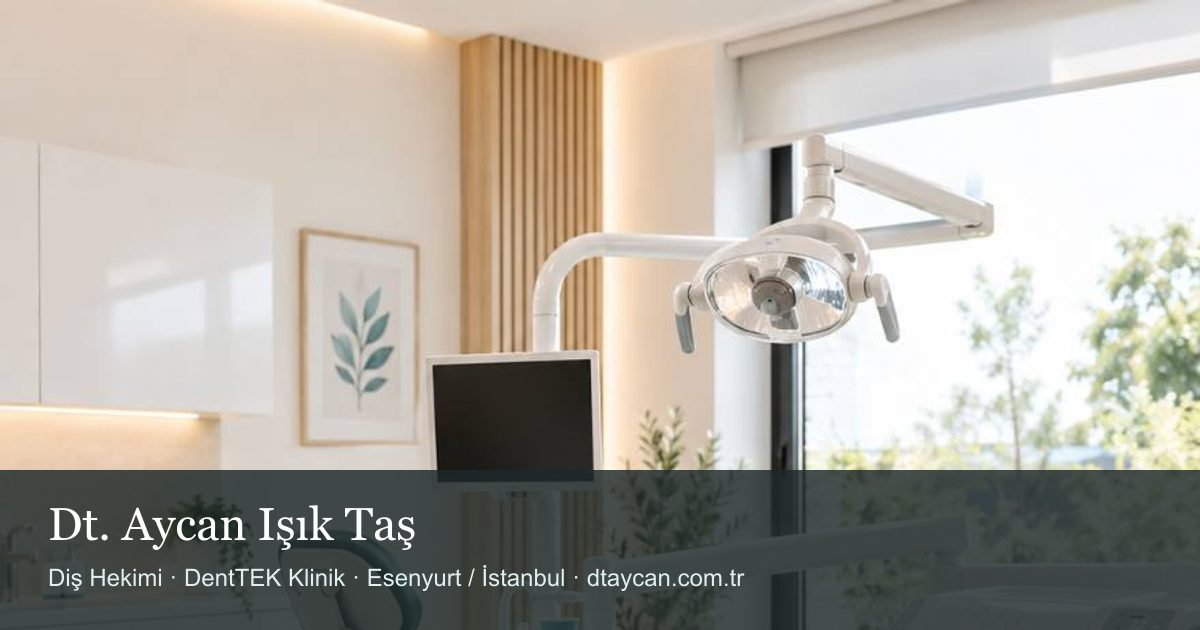
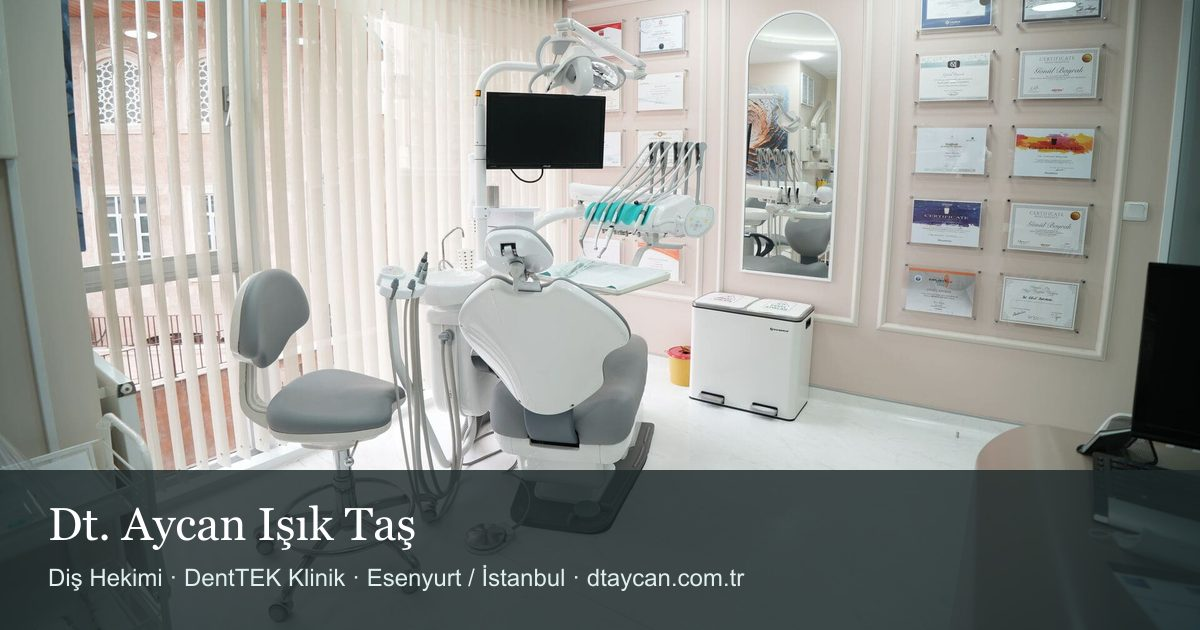
Gerçek fotoğraflar

diff --git a/public/index.html b/public/index.html
@@ -11,7 +11,7 @@
 <meta property="og:description" content="Dt. Aycan Işık Taş — Esenyurt / İstanbul, DentTEK Klinik. Estetik diş hekimliği, implant, ortodonti, çocuk diş hekimliği ve koruyucu tedaviler hakkında bilgilendirme ve randevu.">
 <meta property="og:type" content="website">
 <meta property="og:url" content="https://dtaycan.com.tr/">
-<meta property="og:image" content="https://dtaycan.com.tr/img/klinik.jpg">
+<meta property="og:image" content="https://dtaycan.com.tr/img/og.jpg">
 <meta property="og:locale" content="tr_TR">
 <link rel="icon" href="/favicon.svg" type="image/svg+xml">
 <link rel="preconnect" href="https://fonts.googleapis.com">
@@ -57,7 +57,7 @@
       </ul>
     </div>
     <div class="hero-art">
-      <div class="hero-card"><img src="/img/hero.svg" alt="" width="880" height="1100" fetchpriority="high"></div>
+      <div class="hero-card"><picture><source srcset="/img/hero.webp" type="image/webp"><img src="/img/hero.jpg" alt="Dt. Aycan Işık Taş, DentTEK Klinik tedavi odasında" width="880" height="1100" fetchpriority="high"></picture></div>
     </div>
   </div>
 </section>
@@ -71,7 +71,7 @@
 <p>Her hastanın ağız yapısı, beklentisi ve yaşam düzeni farklıdır; bu nedenle hazır planlar yerine muayene bulgularına dayanan, kişiye özel bir tedavi planı hazırlanır ve seçenekler birlikte değerlendirilir.</p>
       <p><a class="link" href="/hakkinda">Eğitim ve yaklaşım →</a></p>
     </div>
-    <div class="about-art"><img src="/img/klinik.jpg" alt="DentTEK klinik bekleme salonu" width="900" height="522" loading="lazy"></div>
+    <div class="about-art"><picture><source srcset="/img/klinik.webp" type="image/webp"><img src="/img/klinik.jpg" alt="DentTEK Klinik bekleme salonu" width="900" height="522" loading="lazy"></picture></div>
   </div>
 </section>
 
@@ -95,7 +95,7 @@
 
 <section class="section">
   <div class="wrap two rev">
-    <div class="why-art"><img src="/img/t-kanal.svg" alt="" width="880" height="660" loading="lazy"></div>
+    <div class="why-art"><picture><source srcset="/img/neden.webp" type="image/webp"><img src="/img/neden.jpg" alt="DentTEK Klinik tedavi odası" width="880" height="660" loading="lazy"></picture></div>
     <div>
       <p class="eyebrow">Klinik ve hijyen</p>
       <h2>Muayeneden takibe, nasıl çalışıyoruz</h2>

diff --git a/public/klinik.html b/public/klinik.html
@@ -11,7 +11,7 @@
 <meta property="og:description" content="Özel DentTEK Ağız ve Diş Sağlığı Polikliniği, Esenyurt: klinik ortamı, hijyen ve sterilizasyon süreçleri, ulaşım.">
 <meta property="og:type" content="website">
 <meta property="og:url" content="https://dtaycan.com.tr/klinik">
-<meta property="og:image" content="https://dtaycan.com.tr/img/klinik.jpg">
+<meta property="og:image" content="https://dtaycan.com.tr/img/og.jpg">
 <meta property="og:locale" content="tr_TR">
 <link rel="icon" href="/favicon.svg" type="image/svg+xml">
 <link rel="preconnect" href="https://fonts.googleapis.com">
@@ -48,7 +48,18 @@
       <p class="lead">Esenyurt'ta, Nazım Hikmet Bulvarı üzerinde hizmet veren özel ağız ve diş sağlığı polikliniği.</p>
 <p>Klinikte muayene ve tedavi üniteleri, panoramik röntgen ve sterilizasyon birimi bulunur. Bekleme alanı ailelerin ve çocukların rahat edeceği biçimde düzenlenmiştir. Randevular, bekleme süresini kısa tutacak şekilde planlanır.</p>
     </div>
-    <div class="about-art"><img src="/img/klinik.jpg" alt="DentTEK klinik bekleme salonu" width="900" height="522" loading="lazy"></div>
+    <div class="about-art"><picture><source srcset="/img/klinik-hero.webp" type="image/webp"><img src="/img/klinik-hero.jpg" alt="DentTEK Klinik tedavi odası" width="900" height="600" loading="lazy"></picture></div>
+  </div>
+</section>
+<section class="section">
+  <div class="wrap">
+    <p class="eyebrow center">Klinikten</p>
+    <h2 class="center">Tedavi odaları ve ekip</h2>
+    <div class="gallery">
+      <picture><source srcset="/img/neden.webp" type="image/webp"><img src="/img/neden.jpg" alt="DentTEK Klinik ikinci tedavi odası" width="880" height="660" loading="lazy"></picture>
+      <picture><source srcset="/img/klinik.webp" type="image/webp"><img src="/img/klinik.jpg" alt="DentTEK Klinik bekleme salonu" width="900" height="522" loading="lazy"></picture>
+      <picture><source srcset="/img/foto-ekip.webp" type="image/webp"><img src="/img/foto-ekip.jpg" alt="Dt. Mehmet Taş ve Dt. Aycan Işık Taş, DentTEK Klinik" width="900" height="600" loading="lazy"></picture>
+    </div>
   </div>
 </section>
 <section class="section alt">

diff --git a/public/hakkinda.html b/public/hakkinda.html
@@ -11,7 +11,7 @@
 <meta property="og:description" content="Dt. Aycan Işık Taş: eğitim, meslek üyelikleri ve tedavi yaklaşımı. Esenyurt DentTEK Klinik'te diş hekimi.">
 <meta property="og:type" content="website">
 <meta property="og:url" content="https://dtaycan.com.tr/hakkinda">
-<meta property="og:image" content="https://dtaycan.com.tr/img/klinik.jpg">
+<meta property="og:image" content="https://dtaycan.com.tr/img/og.jpg">
 <meta property="og:locale" content="tr_TR">
 <link rel="icon" href="/favicon.svg" type="image/svg+xml">
 <link rel="preconnect" href="https://fonts.googleapis.com">
@@ -50,7 +50,7 @@
 <p>Diş hekimliği eğitimine Yeditepe Üniversitesi'nde başladı, Süleyman Demirel Üniversitesi Diş Hekimliği Fakültesi'nden 2014'te mezun oldu. Mezuniyetinden bu yana aynı klinikte çalışıyor; 2019–2020 döneminde ayrıca Bahçeşehir Dentopia Ağız ve Diş Sağlığı Hastanesi'nde görev yaptı.</p>
 <p>Mesleki eğitimlerini özellikle implantoloji, estetik diş hekimliği, periodontal uygulamalar ve ileri cerrahi yaklaşımlar üzerine yoğunlaştırdı; yurt içi ve yurt dışında (Bremen, Los Angeles) kurs ve sempozyumlara katıldı. Klinik hasta yönetiminin yanı sıra ekip koordinasyonu, klinik işleyişi ve tedavi süreçlerinin takibi de sorumluluk alanları arasında.</p>
     </div>
-    <div class="about-art"><img src="/img/portre.svg" alt="" width="880" height="1100" loading="lazy"></div>
+    <div class="about-art"><picture><source srcset="/img/portre.webp" type="image/webp"><img src="/img/portre.jpg" alt="Dt. Aycan Işık Taş" width="880" height="1100" loading="lazy"></picture></div>
   </div>
 </section>
 <section class="section alt">

diff --git a/public/tedaviler/dis-cekimi-agiz-cerrahisi.html b/public/tedaviler/dis-cekimi-agiz-cerrahisi.html
@@ -11,7 +11,7 @@
 <meta property="og:description" content="Diş çekimi ve ağız cerrahisi: ne zaman çekim gerekir, gömülü 20 yaş dişi operasyonu, işlem sonrası bakım, kuru soket ve sık sorulan sorular. Esenyurt, Dt. Aycan Işık Taş.">
 <meta property="og:type" content="website">
 <meta property="og:url" content="https://dtaycan.com.tr/tedaviler/dis-cekimi-agiz-cerrahisi">
-<meta property="og:image" content="https://dtaycan.com.tr/img/klinik.jpg">
+<meta property="og:image" content="https://dtaycan.com.tr/img/og.jpg">
 <meta property="og:locale" content="tr_TR">
 <link rel="icon" href="/favicon.svg" type="image/svg+xml">
 <link rel="preconnect" href="https://fonts.googleapis.com">

diff --git a/public/tedaviler/dis-eti-tedavileri.html b/public/tedaviler/dis-eti-tedavileri.html
@@ -11,7 +11,7 @@
 <meta property="og:description" content="Diş eti tedavileri (periodontoloji): diş eti kanaması, diş taşı temizliği, küretaj, diş eti çekilmesi ve ağız kokusu hakkında bilgilendirme. Esenyurt, Dt. Aycan Işık Taş.">
 <meta property="og:type" content="website">
 <meta property="og:url" content="https://dtaycan.com.tr/tedaviler/dis-eti-tedavileri">
-<meta property="og:image" content="https://dtaycan.com.tr/img/klinik.jpg">
+<meta property="og:image" content="https://dtaycan.com.tr/img/og.jpg">
 <meta property="og:locale" content="tr_TR">
 <link rel="icon" href="/favicon.svg" type="image/svg+xml">
 <link rel="preconnect" href="https://fonts.googleapis.com">

diff --git a/public/tedaviler/cocuk-dis-hekimligi.html b/public/tedaviler/cocuk-dis-hekimligi.html
@@ -11,7 +11,7 @@
 <meta property="og:description" content="Çocuk diş hekimliği: ilk muayene zamanı, süt dişleri, fissür örtücü, flor, çürük tedavisi ve diş hekimi korkusu hakkında bilgilendirme. Esenyurt, Dt. Aycan Işık Taş.">
 <meta property="og:type" content="website">
 <meta property="og:url" content="https://dtaycan.com.tr/tedaviler/cocuk-dis-hekimligi">
-<meta property="og:image" content="https://dtaycan.com.tr/img/klinik.jpg">
+<meta property="og:image" content="https://dtaycan.com.tr/img/og.jpg">
 <meta property="og:locale" content="tr_TR">
 <link rel="icon" href="/favicon.svg" type="image/svg+xml">
 <link rel="preconnect" href="https://fonts.googleapis.com">

diff --git a/public/tedaviler/estetik-dis-hekimligi.html b/public/tedaviler/estetik-dis-hekimligi.html
@@ -11,7 +11,7 @@
 <meta property="og:description" content="Estetik diş hekimliği: lamina (yaprak porselen), zirkonyum kaplama, kompozit bonding ve gülüş tasarımı hakkında bilgilendirme. Esenyurt, Dt. Aycan Işık Taş.">
 <meta property="og:type" content="website">
 <meta property="og:url" content="https://dtaycan.com.tr/tedaviler/estetik-dis-hekimligi">
-<meta property="og:image" content="https://dtaycan.com.tr/img/klinik.jpg">
+<meta property="og:image" content="https://dtaycan.com.tr/img/og.jpg">
 <meta property="og:locale" content="tr_TR">
 <link rel="icon" href="/favicon.svg" type="image/svg+xml">
 <link rel="preconnect" href="https://fonts.googleapis.com">

diff --git a/public/tedaviler/dolgu-restoratif-tedavi.html b/public/tedaviler/dolgu-restoratif-tedavi.html
@@ -11,7 +11,7 @@
 <meta property="og:description" content="Diş dolgusu: kompozit (beyaz) dolgu, inley/onley, çürük tedavisi, dolgu ömrü ve sonrası hassasiyet hakkında bilgilendirme. Esenyurt, Dt. Aycan Işık Taş.">
 <meta property="og:type" content="website">
 <meta property="og:url" content="https://dtaycan.com.tr/tedaviler/dolgu-restoratif-tedavi">
-<meta property="og:image" content="https://dtaycan.com.tr/img/klinik.jpg">
+<meta property="og:image" content="https://dtaycan.com.tr/img/og.jpg">
 <meta property="og:locale" content="tr_TR">
 <link rel="icon" href="/favicon.svg" type="image/svg+xml">
 <link rel="preconnect" href="https://fonts.googleapis.com">

diff --git a/public/404.html b/public/404.html
@@ -11,7 +11,7 @@
 <meta property="og:description" content="Dt. Aycan Işık Taş — Esenyurt / İstanbul, DentTEK Klinik. Estetik diş hekimliği, implant, ortodonti, çocuk diş hekimliği ve koruyucu tedaviler hakkında bilgilendirme ve randevu.">
 <meta property="og:type" content="website">
 <meta property="og:url" content="https://dtaycan.com.tr/404">
-<meta property="og:image" content="https://dtaycan.com.tr/img/klinik.jpg">
+<meta property="og:image" content="https://dtaycan.com.tr/img/og.jpg">
 <meta property="og:locale" content="tr_TR">
 <link rel="icon" href="/favicon.svg" type="image/svg+xml">
 <link rel="preconnect" href="https://fonts.googleapis.com">

diff --git a/public/tedaviler/protez.html b/public/tedaviler/protez.html
@@ -11,7 +11,7 @@
 <meta property="og:description" content="Diş protezleri: sabit köprü, tam ve kısmi hareketli protez, implant üstü protez; seçenekler, süreç, alışma ve bakım. Esenyurt, Dt. Aycan Işık Taş.">
 <meta property="og:type" content="website">
 <meta property="og:url" content="https://dtaycan.com.tr/tedaviler/protez">
-<meta property="og:image" content="https://dtaycan.com.tr/img/klinik.jpg">
+<meta property="og:image" content="https://dtaycan.com.tr/img/og.jpg">
 <meta property="og:locale" content="tr_TR">
 <link rel="icon" href="/favicon.svg" type="image/svg+xml">
 <link rel="preconnect" href="https://fonts.googleapis.com">

diff --git a/public/tedaviler/ortodonti.html b/public/tedaviler/ortodonti.html
@@ -11,7 +11,7 @@
 <meta property="og:description" content="Ortodonti: şeffaf plak (aligner) ve tel tedavisi, çocuk ve yetişkinlerde süreç, süre, bakım ve sık sorulan sorular. Esenyurt, Dt. Aycan Işık Taş.">
 <meta property="og:type" content="website">
 <meta property="og:url" content="https://dtaycan.com.tr/tedaviler/ortodonti">
-<meta property="og:image" content="https://dtaycan.com.tr/img/klinik.jpg">
+<meta property="og:image" content="https://dtaycan.com.tr/img/og.jpg">
 <meta property="og:locale" content="tr_TR">
 <link rel="icon" href="/favicon.svg" type="image/svg+xml">
 <link rel="preconnect" href="https://fonts.googleapis.com">

diff --git a/public/tedaviler/dis-beyazlatma.html b/public/tedaviler/dis-beyazlatma.html
@@ -11,7 +11,7 @@
 <meta property="og:description" content="Diş beyazlatma: ofis tipi ve ev tipi yöntemler, kimlere uygun, hassasiyet, kalıcılık ve sık sorulan sorular. Esenyurt, Dt. Aycan Işık Taş.">
 <meta property="og:type" content="website">
 <meta property="og:url" content="https://dtaycan.com.tr/tedaviler/dis-beyazlatma">
-<meta property="og:image" content="https://dtaycan.com.tr/img/klinik.jpg">
+<meta property="og:image" content="https://dtaycan.com.tr/img/og.jpg">
 <meta property="og:locale" content="tr_TR">
 <link rel="icon" href="/favicon.svg" type="image/svg+xml">
 <link rel="preconnect" href="https://fonts.googleapis.com">
